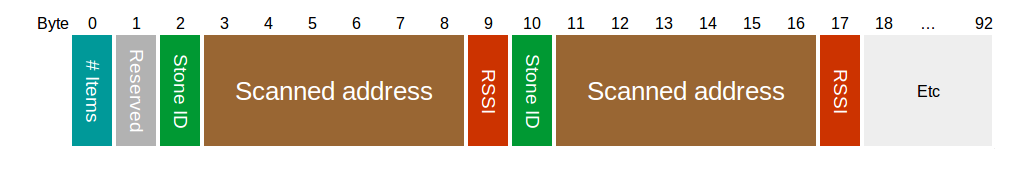
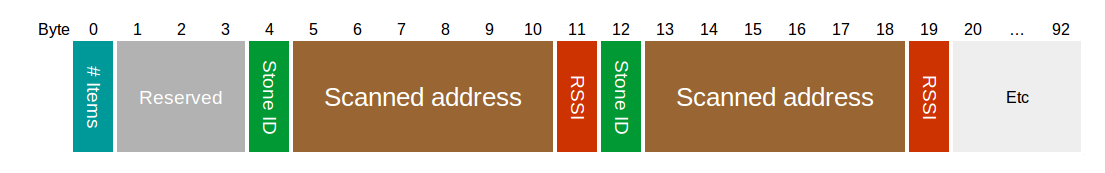
Fixed doc of scan-result-mesh-packet.

Changed region(s): [[0.0304, 0.0882, 0.9735, 0.8824]]

diff --git a/docs/PROTOCOL.md b/docs/PROTOCOL.md
@@ -1164,9 +1164,9 @@ uint 8 | Payload | Length | see [State Packet](#state_packet)
 
 Type | Name | Length | Description
 --- | --- | --- | ---
-uint 8 | Number of results | 1 | Number of scan results in the list
-uint 8 | Reserved | 1 | Reserved for future use
-[Scan Result item](#scan_result_item) [] | List | N | A list of scanned devices with the ID of the crownstone that scanned the device
+uint 8 | Number of results | 1 | Number of scan results in the list.
+uint 8 | Reserved | 3 | Reserved for future use.
+[Scan Result item](#scan_result_item) [] | List | N | A list of scanned devices with the ID of the crownstone that scanned the device.
 
 
 <a name="mesh_scan_result_item"></a>
@@ -1174,9 +1174,9 @@ uint 8 | Reserved | 1 | Reserved for future use
 
 Type | Name | Length | Description
 --- | --- | --- | ---
-uint 8 | Crownstone ID | 1 | The identifier of the Crownstone which scanned the device
-uint 8 [6] | Scanned device address | 6 | The MAC address of the scanned device
-int 8 | RSSI | 1 | The averaged RSSI value of the scanned device
+uint 8 | Crownstone ID | 1 | The identifier of the Crownstone which scanned the device.
+uint 8 [6] | Scanned device address | 6 | The MAC address of the scanned device.
+int 8 | RSSI | 1 | The averaged RSSI value of the scanned device.
 
 
 <a name="multi_switch_mesh_packet"></a>
